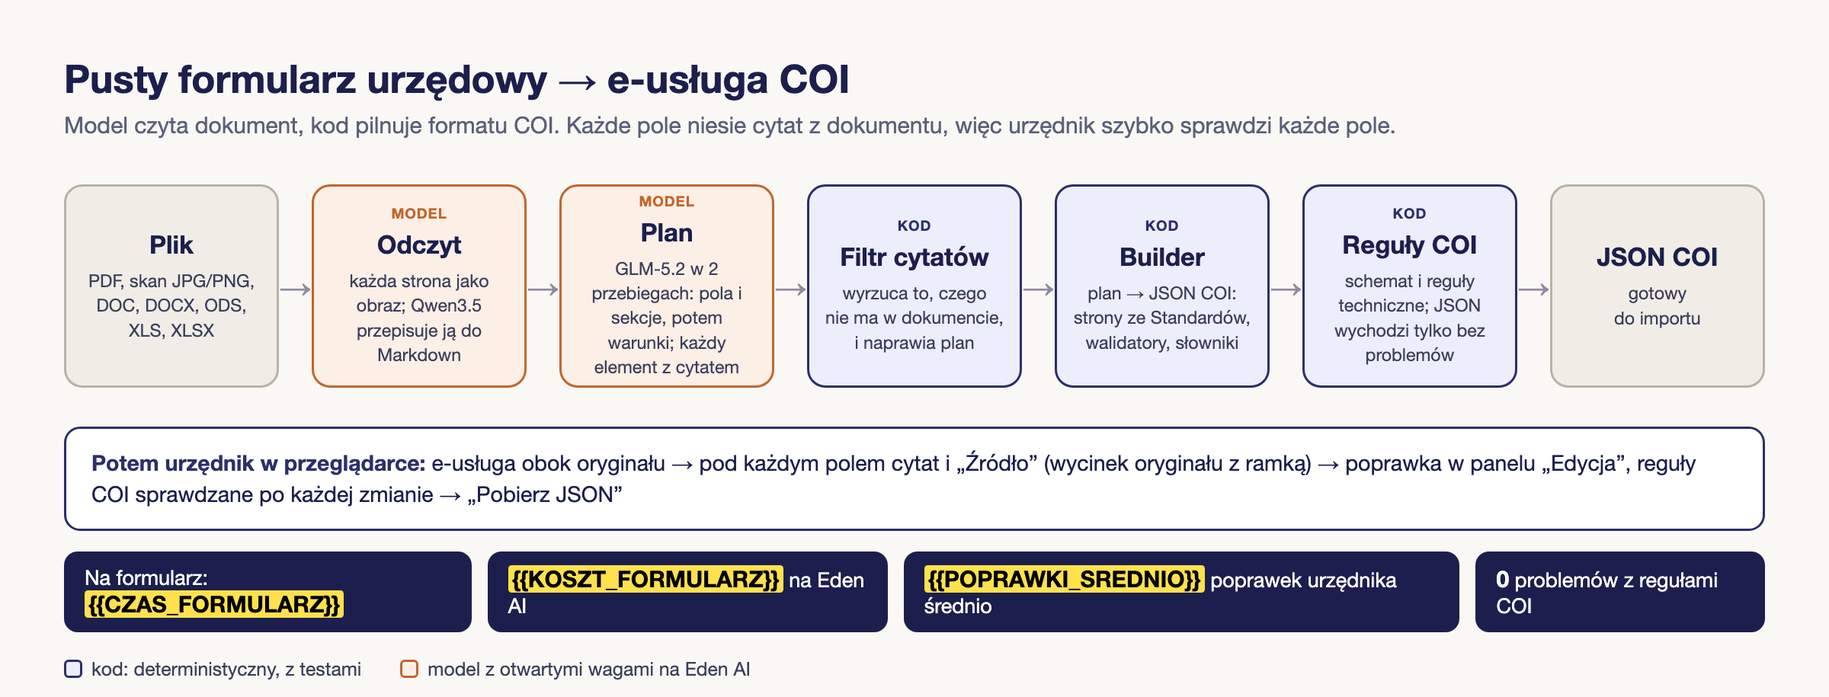
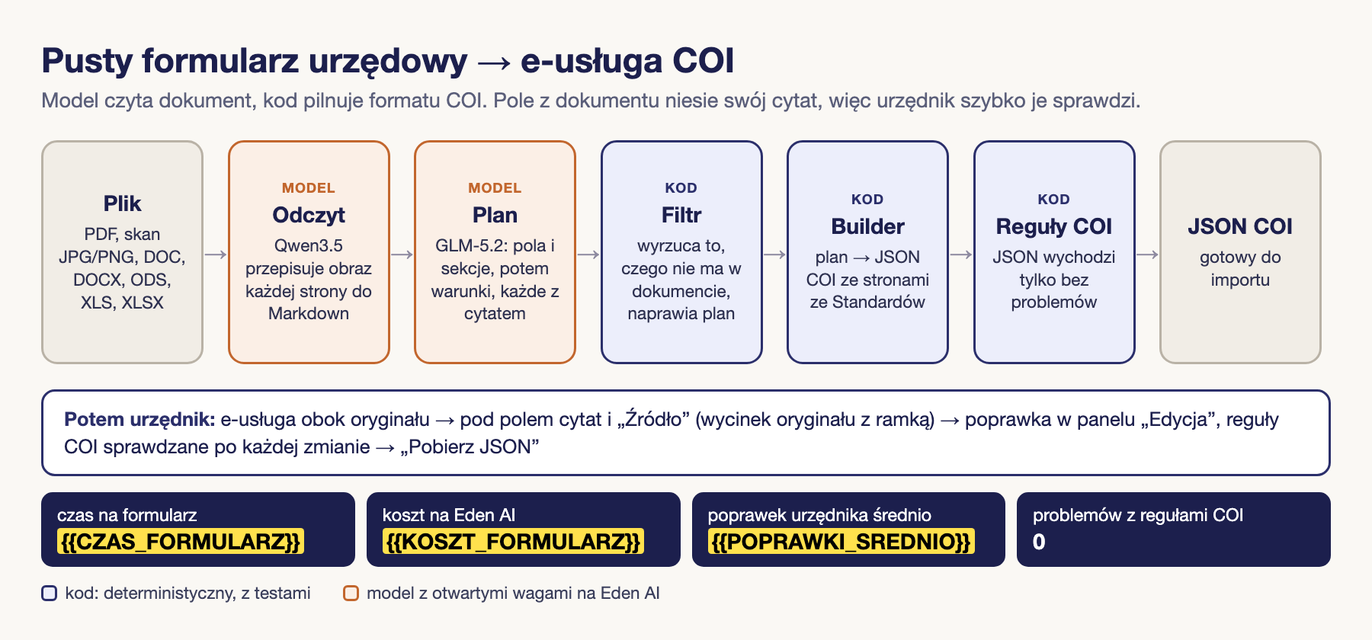
README council round 1: storage says the 16-file reading cache stays in memory, status_url 404 = job gone, compliance row answers the external-API rule (open weights, Eden hosts them, own server by config, its key in EDENAI_API_KEY), files-with-JSON and fields-per-form slots, one step numbering (1 U

Changed region(s): [[0.0311, 0.0619, 0.9956, 0.9905]]

diff --git a/docs/img/prosty.html b/docs/img/prosty.html
@@ -1,53 +1,54 @@
 <!doctype html>
 <html lang="pl"><head><meta charset="utf-8">
-<meta name="render" content="1600x610">
-<!-- Diagram „w skrócie” z README. Render: python3 docs/img/render.py prosty (liczby z liczby.json). -->
+<meta name="render" content="1200x560">
+<!-- Diagram „w skrócie” na górze README. 1200 px szerokości, żeby tekst był czytelny w szerokości README na GitHubie.
+     Render: python3 docs/img/render.py prosty (liczby z liczby.json). -->
 <style>
   *{box-sizing:border-box}
   body{margin:0;background:#faf8f4;font-family:-apple-system,"Helvetica Neue",Arial,sans-serif;color:#1c1f4d}
-  .wrap{width:1600px;padding:48px 56px}
-  h1{margin:0 0 8px;font-size:34px;font-weight:700}
-  .sub{margin:0 0 40px;font-size:20px;color:#5b5f7a}
+  .wrap{width:1200px;padding:34px 36px}
+  h1{margin:0 0 6px;font-size:30px;font-weight:700}
+  .sub{margin:0 0 24px;font-size:18px;color:#5b5f7a}
   .row{display:flex;align-items:center}
-  .box{width:196px;height:178px;border-radius:16px;padding:16px 14px;display:flex;flex-direction:column;justify-content:center;text-align:center;border:2px solid}
-  .box b{font-size:22px;display:block;margin-bottom:8px}
-  .box span{font-size:15.5px;line-height:1.38;color:#3b3f5c}
-  .box i{font-style:normal;font-size:12.5px;font-weight:700;letter-spacing:.6px;text-transform:uppercase;margin-bottom:6px}
+  .box{width:142px;height:196px;border-radius:14px;padding:12px 9px;display:flex;flex-direction:column;justify-content:center;text-align:center;border:2px solid}
+  .box b{font-size:19px;display:block;margin-bottom:6px}
+  .box span{font-size:15px;line-height:1.33;color:#2e3150}
+  .box i{font-style:normal;font-size:12px;font-weight:700;letter-spacing:.6px;text-transform:uppercase;margin-bottom:4px}
   .io{background:#f1ede6;border-color:#b9b2a6}
   .code{background:#eceefb;border-color:#2b2f6b}.code i{color:#2b2f6b}
   .ai{background:#fbefe6;border-color:#c2662d}.ai i{color:#c2662d}
-  .arrow{width:30px;text-align:center;font-size:28px;color:#8e8aa0}
-  .clerk{margin-top:34px;background:#fff;border:2px solid #2b2f6b;border-radius:14px;padding:16px 22px;font-size:19px;line-height:1.45}
+  .arrow{width:21px;text-align:center;font-size:20px;color:#8e8aa0}
+  .clerk{margin-top:22px;background:#fff;border:2px solid #2b2f6b;border-radius:12px;padding:12px 18px;font-size:17px;line-height:1.42}
   .clerk b{color:#2b2f6b}
-  .nums{margin-top:18px;display:flex;gap:14px}
-  .num{background:#1c1f4d;color:#fff;border-radius:12px;padding:12px 18px;font-size:18px}
-  .num b{font-size:20px}
-  .legend{margin-top:22px;display:flex;gap:34px;font-size:16.5px;color:#3b3f5c}
-  .dot{display:inline-block;width:16px;height:16px;border-radius:4px;vertical-align:-2px;margin-right:8px;border:2px solid}
+  .nums{margin-top:14px;display:grid;grid-template-columns:repeat(4,1fr);gap:10px}
+  .num{background:#1c1f4d;color:#fff;border-radius:10px;padding:10px 14px;font-size:15.5px;line-height:1.3}
+  .num b{font-size:19px;display:block}
+  .legend{margin-top:14px;display:flex;gap:28px;font-size:15px;color:#3b3f5c}
+  .dot{display:inline-block;width:14px;height:14px;border-radius:4px;vertical-align:-2px;margin-right:7px;border:2px solid}
 </style></head><body><div class="wrap">
   <h1>Pusty formularz urzędowy → e-usługa COI</h1>
-  <p class="sub">Model czyta dokument, kod pilnuje formatu COI. Każde pole niesie cytat z dokumentu, więc urzędnik szybko sprawdzi każde pole.</p>
+  <p class="sub">Model czyta dokument, kod pilnuje formatu COI. Pole z dokumentu niesie swój cytat, więc urzędnik szybko je sprawdzi.</p>
   <div class="row">
-    <div class="box io"><b>Plik</b><span>PDF, skan JPG/PNG,<br>DOC, DOCX, ODS,<br>XLS, XLSX</span></div>
+    <div class="box io"><b>Plik</b><span>PDF, skan JPG/PNG, DOC, DOCX, ODS, XLS, XLSX</span></div>
     <div class="arrow">→</div>
-    <div class="box ai"><i>model</i><b>Odczyt</b><span>każda strona jako obraz; Qwen3.5 przepisuje ją do Markdown</span></div>
+    <div class="box ai"><i>model</i><b>Odczyt</b><span>Qwen3.5 przepisuje obraz każdej strony do Markdown</span></div>
     <div class="arrow">→</div>
-    <div class="box ai"><i>model</i><b>Plan</b><span>GLM-5.2 w 2 przebiegach: pola i sekcje, potem warunki; każdy element z cytatem</span></div>
+    <div class="box ai"><i>model</i><b>Plan</b><span>GLM-5.2: pola i sekcje, potem warunki, każde z cytatem</span></div>
     <div class="arrow">→</div>
-    <div class="box code"><i>kod</i><b>Filtr cytatów</b><span>wyrzuca to, czego<br>nie ma w dokumencie,<br>i naprawia plan</span></div>
+    <div class="box code"><i>kod</i><b>Filtr</b><span>wyrzuca to, czego nie ma w dokumencie, naprawia plan</span></div>
     <div class="arrow">→</div>
-    <div class="box code"><i>kod</i><b>Builder</b><span>plan → JSON COI:<br>strony ze Standardów,<br>walidatory, słowniki</span></div>
+    <div class="box code"><i>kod</i><b>Builder</b><span>plan → JSON COI ze stronami ze Standardów</span></div>
     <div class="arrow">→</div>
-    <div class="box code"><i>kod</i><b>Reguły COI</b><span>schemat i reguły techniczne; JSON wychodzi tylko bez problemów</span></div>
+    <div class="box code"><i>kod</i><b>Reguły COI</b><span>JSON wychodzi tylko bez problemów</span></div>
     <div class="arrow">→</div>
-    <div class="box io"><b>JSON COI</b><span>gotowy<br>do importu</span></div>
+    <div class="box io"><b>JSON COI</b><span>gotowy do importu</span></div>
   </div>
-  <div class="clerk"><b>Potem urzędnik w przeglądarce:</b> e-usługa obok oryginału → pod każdym polem cytat i „Źródło” (wycinek oryginału z ramką) → poprawka w panelu „Edycja”, reguły COI sprawdzane po każdej zmianie → „Pobierz JSON”</div>
+  <div class="clerk"><b>Potem urzędnik:</b> e-usługa obok oryginału → pod polem cytat i „Źródło” (wycinek oryginału z ramką) → poprawka w panelu „Edycja”, reguły COI sprawdzane po każdej zmianie → „Pobierz JSON”</div>
   <div class="nums">
-    <div class="num">Na formularz: <b>{{CZAS_FORMULARZ}}</b></div>
-    <div class="num"><b>{{KOSZT_FORMULARZ}}</b> na Eden AI</div>
-    <div class="num"><b>{{POPRAWKI_SREDNIO}}</b> poprawek urzędnika średnio</div>
-    <div class="num"><b>0</b> problemów z regułami COI</div>
+    <div class="num">czas na formularz<b>{{CZAS_FORMULARZ}}</b></div>
+    <div class="num">koszt na Eden AI<b>{{KOSZT_FORMULARZ}}</b></div>
+    <div class="num">poprawek urzędnika średnio<b>{{POPRAWKI_SREDNIO}}</b></div>
+    <div class="num">problemów z regułami COI<b>0</b></div>
   </div>
   <div class="legend">
     <span><i class="dot" style="background:#eceefb;border-color:#2b2f6b"></i>kod: deterministyczny, z testami</span>

diff --git a/docs/img/architektura.html b/docs/img/architektura.html
@@ -40,31 +40,31 @@ h1{font-size:30px;font-weight:700;letter-spacing:-.3px}
 <div class="lane">
  <div class="lanelabel">Główna ścieżka: POST /api/forms/convert (app/pipeline.py)</div>
  <div class="row">
-  <div class="box io"><h3>Upload</h3><div class="f">app/upload.py, security.py</div>
+  <div class="box io"><h3>1. Upload</h3><div class="f">app/upload.py, security.py</div>
    <ul><li>jeden plik, tylko w pamięci</li><li>limit rozmiaru, nazwa, rozszerzenie, sygnatura bajtów</li><li>JWT przy AUTH_ENABLED=1</li></ul>
    <div class="data">bajty + nazwa</div></div>
   <div class="arrow">→</div>
-  <div class="box llm"><h3>1. Odczyt stron</h3><div class="f">app/llm/transcribe.py</div>
-   <ul><li>każdy format → obrazy stron (PDFium; pliki biurowe przez LibreOffice)</li><li>Qwen3.5-397B-A17B: jedno wywołanie na stronę, 4 naraz</li><li>wynik w pamięci podręcznej po sha256</li></ul>
+  <div class="box llm"><h3>2. Odczyt stron</h3><div class="f">app/llm/transcribe.py</div>
+   <ul><li>każdy format → obrazy stron (PDFium; pliki biurowe przez LibreOffice)</li><li>Qwen3.5-397B-A17B: jedno wywołanie na stronę, 4 naraz</li><li>odczyt 16 ostatnich plików zostaje w pamięci (sha256), słowniki nie płacą drugi raz</li></ul>
    <div class="data">Markdown stron</div></div>
   <div class="arrow">→</div>
-  <div class="box llm"><h3>2a. Planer, przebieg 1</h3><div class="f">app/llm/planner.py</div>
+  <div class="box llm"><h3>3a. Planer, przebieg 1</h3><div class="f">app/llm/planner.py</div>
    <ul><li>GLM-5.2 czyta sam Markdown</li><li>strony, sekcje, pola, opcje, oświadczenia, adresat, kto składa</li><li>odpowiedź wymuszona schematem JSON</li><li>każdy element niesie <b>cytat</b></li></ul>
    <div class="data">szkic planu</div></div>
   <div class="arrow">→</div>
-  <div class="box llm"><h3>2b. Planer, przebieg 2</h3><div class="f">app/llm/planner.py</div>
+  <div class="box llm"><h3>3b. Planer, przebieg 2</h3><div class="f">app/llm/planner.py</div>
    <ul><li>warunki „pokaż, gdy…”</li><li>schemat dopuszcza tylko istniejące pola i opcje</li><li>może dodać pytanie Tak/Nie z cytatem</li></ul>
    <div class="data">plan + warunki</div></div>
   <div class="arrow">→</div>
-  <div class="box code"><h3>3. Filtr cytatów, naprawy</h3><div class="f">app/quotes.py, repair.py</div>
+  <div class="box code"><h3>4. Filtr cytatów, naprawy</h3><div class="f">app/quotes.py, repair.py</div>
    <ul><li>cytatu nie ma w Markdownie → element wypada</li><li>opcje spoza dokumentu, podwójne pola i pytania</li><li>warunek bez oparcia → wypada, pole zostaje</li></ul>
    <div class="data">czysty plan</div></div>
   <div class="arrow">→</div>
-  <div class="box code"><h3>4. Builder</h3><div class="f">app/builder/</div>
+  <div class="box code"><h3>5. Builder</h3><div class="f">app/builder/</div>
    <ul><li>plan → JSON COI, bez modelu</li><li>strony ze Standardów: Dane (MLPZ), Kontakt i zgody, końcowa</li><li>SHOW w JSONata, walidatory, słowniki</li></ul>
    <div class="data">JSON COI + cytaty</div></div>
   <div class="arrow">→</div>
-  <div class="box code"><h3>5. Reguły COI</h3><div class="f">app/rules.py</div>
+  <div class="box code"><h3>6. Reguły COI</h3><div class="f">app/rules.py</div>
    <ul><li>schemat JSON COI</li><li>„Reguły techniczne”</li><li>jakikolwiek problem → <b>422</b>, nigdy zły JSON</li></ul>
    <div class="data">200: JSON COI</div></div>
  </div>

diff --git a/docs/img/odczyt.html b/docs/img/odczyt.html
@@ -38,7 +38,7 @@
   <div class="grid">
    <div>
     <div class="step"><div class="n">1</div><div class="body">
-      <div class="title">Plik</div>
+      <div class="title">Plik (upload)</div>
       <div class="chips">
         <div class="chip">PDF z tekstem</div><div class="chip">PDF ze skanem</div>
         <div class="chip">Skan JPG / PNG</div><div class="chip">DOC / DOCX / ODS / XLS / XLSX</div>
@@ -73,8 +73,8 @@
     <div class="step"><div class="n">3</div><div class="body">
       <div class="title">Planer GLM-5.2 na Eden AI: Markdown → plan formularza, 2 przebiegi</div>
       <div class="pass">
-        <div><b>Przebieg 1: struktura</b><br>strony, sekcje, pola z typami i opcjami, oświadczenia, adresat, kto składa wniosek. Każdy element ma <b>cytat</b> z dokumentu.</div>
-        <div><b>Przebieg 2: warunki</b><br>„pokaż, gdy…” (np. „Numer mikroprocesora” tylko przy oznakowaniu psa „mikroprocesor”), też z cytatem. Schemat odpowiedzi dopuszcza tylko istniejące pola i opcje.</div>
+        <div><b>3a. Przebieg 1: struktura</b><br>strony, sekcje, pola z typami i opcjami, oświadczenia, adresat, kto składa wniosek. Każdy element ma <b>cytat</b> z dokumentu.</div>
+        <div><b>3b. Przebieg 2: warunki</b><br>„pokaż, gdy…” (np. „Numer mikroprocesora” tylko przy oznakowaniu psa „mikroprocesor”), też z cytatem. Schemat odpowiedzi dopuszcza tylko istniejące pola i opcje.</div>
       </div>
       <div class="out">→ plan; filtr cytatów wyrzuca wszystko, czego cytatu nie ma w Markdownie z kroku 2, potem naprawy w kodzie</div>
     </div></div>

diff --git a/docs/img/historia.html b/docs/img/historia.html
@@ -51,7 +51,7 @@ h1{font-size:28px;font-weight:700}
  </div>
 
  <div class="panel"><h2>3. GLM-5.2 najlepszym planerem</h2>
-  <p>Ten sam Markdown formularza 3 (PDF, skan, DOCX), średnia z 2 przebiegów; pod nazwą sekundy na plan</p>
+  <p>Ten sam Markdown formularza 3 (PDF, JPEG, DOCX), średnia z 2 przebiegów; pod nazwą sekundy na plan</p>
   <div class="chart">
    <div class="grp"><div class="bars"><div class="bar ours" style="height:95%"><span>0,95</span></div></div></div>
    <div class="grp"><div class="bars"><div class="bar grey" style="height:92.8%"><span>0,93</span></div></div></div>

diff --git a/app/config.py b/app/config.py
@@ -71,8 +71,8 @@ class Settings(BaseSettings):
                 raise ValueError("JWT_JWKS_URL needs an asymmetric JWT_ALGORITHM such as RS256")
             return self
         if self.jwt_secret is None:
-            # Safe dev fallback: unguessable, but tokens die with the process. Docker compose
-            # refuses to start without JWT_SECRET, so this only happens in local runs.
+            # Safe fallback: unguessable, but tokens die with the process (and with AUTH_ENABLED=0 nobody
+            # needs one); set JWT_SECRET in production. Nothing refuses to start without it.
             log.warning("JWT_SECRET not set: using a random per-process secret (set it in production)")
             self.jwt_secret = SecretStr(secrets.token_urlsafe(32))
         elif len(self.jwt_secret.get_secret_value()) < 32:

diff --git a/README.md b/README.md
@@ -1,6 +1,8 @@
 # eFormatka: z papierowego formularza e-usługa COI
 
-Wgrywasz pusty formularz urzędowy w dowolnym formacie (PDF, skan JPG/PNG, DOC, DOCX, ODS, XLS, XLSX), a REST API zwraca JSON e-usługi COI gotowy do importu. Urzędnik dostaje ten JSON jako szkic obok oryginału i poprawia go w edytorze: pod każdym polem widzi cytat z dokumentu i „Źródło”, czyli wycinek oryginału z zaznaczonym miejscem. Model nie musi trafić wszystkiego za pierwszym razem, bo sprawdzenie i poprawka zajmują chwilę.
+Wgrywasz pusty formularz urzędowy w dowolnym formacie (PDF, skan JPG/PNG, DOC, DOCX, ODS, XLS, XLSX), a REST API zwraca JSON e-usługi COI gotowy do importu. Urzędnik dostaje ten JSON jako szkic obok oryginału i poprawia go w edytorze: pod polem widzi cytat z dokumentu, z którego pole powstało, i „Źródło”, czyli wycinek oryginału z zaznaczonym miejscem. Model nie musi trafić wszystkiego za pierwszym razem: JSON to szkic, który urzędnik sprawdza i poprawia z oryginałem przed oczami.
+
+{{ZRZUT_APLIKACJI}}
 
 ![Schemat: plik → odczyt stron → plan z cytatami → kod buduje i sprawdza JSON COI → urzędnik poprawia w przeglądarce](docs/img/prosty.png)
 
@@ -12,12 +14,13 @@ Mierzymy to, co obchodzi urzędnika: ile poprawek musi zrobić w edytorze, zanim
 
 | | |
 |---|---|
-| Poprawki urzędnika | średnio **{{POPRAWKI_SREDNIO}}** na formularz, szczegóły w tabeli niżej |
+| Poprawki urzędnika | średnio **{{POPRAWKI_SREDNIO}}** na formularz, który ma średnio {{POLA_SREDNIO}} pól; szczegóły w tabeli niżej |
+| Pliki, z których powstał JSON | **{{PLIKI_OK}}** z 69 (9 formularzy z zadania we wszystkich formatach) |
 | Problemy z regułami COI | **0**. API nie wypuszcza JSON-a, który łamie schemat COI albo „Reguły techniczne”, tylko odpowiada 422 |
 | Czas i koszt | średnio **{{CZAS_FORMULARZ}}** i **{{KOSZT_FORMULARZ}}** na formularz (modele na Eden AI) |
-| Czy sędziom można wierzyć | {{KALIBRACJA}} |
+| Kalibracja sędziów | {{KALIBRACJA}} |
 
-**Jak liczymy poprawki.** Trzech sędziów AI dostaje strony oryginału i nasz JSON jako czytelny konspekt. Każdy osobno wypisuje poprawki, które urzędnik zrobiłby w edytorze: brakujące pole, zmyślone pole, zły typ, złe opcje, zły albo brakujący warunek, złe „wymagane”. Poprawka liczy się, gdy wypiszą ją co najmniej 2 z 3 sędziów. Samych sędziów sprawdziliśmy na 10 błędach, które celowo wstawiliśmy do poprawnych JSON-ów (wiersz „Czy sędziom można wierzyć”). Przepis: `bench/JUDGE-POPRAWKI.md`.
+**Jak liczymy poprawki.** Trzech sędziów AI dostaje strony oryginału i nasz JSON jako czytelny konspekt. Każdy osobno wypisuje poprawki, które urzędnik zrobiłby w edytorze: brakujące pole, zmyślone pole, zły typ, złe opcje, zły albo brakujący warunek, złe „wymagane”. Poprawka liczy się, gdy wypiszą ją co najmniej 2 z 3 sędziów. Samych sędziów sprawdziliśmy na 10 błędach, które celowo wstawiliśmy do poprawnych JSON-ów (wiersz „Kalibracja sędziów”). Przepis: `bench/JUDGE-POPRAWKI.md`.
 
 ### Każdy formularz z zadania
 
@@ -25,7 +28,7 @@ Mierzymy to, co obchodzi urzędnika: ile poprawek musi zrobić w edytorze, zanim
 
 ### Porównanie podejść
 
-Te same dokumenty i ci sami sędziowie, od najprostszego podejścia (cały plik prosto do jednego modelu, który ma oddać JSON COI) do naszego:
+Te same dokumenty i ci sami sędziowie, od najprostszego podejścia (cały plik prosto do jednego modelu, który ma oddać JSON COI) do naszego. Przy każdym podejściu podajemy model:
 
 {{PORÓWNANIE}}
 
@@ -51,8 +54,6 @@ uv run uvicorn app.api:app --port 8000
 Strona dla urzędnika: http://localhost:8000. OpenAPI: http://localhost:8000/docs. Stan: http://localhost:8000/health. Jeden formularz trwa od pół minuty do kilku minut. Gdy klient nie może tyle czekać, jest [zadanie w tle](#zadanie-w-tle).
 
 ## Jak z tego korzystać
-
-{{ZRZUT_APLIKACJI}}
 
 1. **Wgraj plik** na http://localhost:8000: upuść go gdziekolwiek na stronie albo wybierz z dysku. Kilka plików naraz przetwarza się po kolei, a „Pobierz wszystkie” daje ZIP z ich JSON-ami.
 2. **Porównaj.** Z lewej oryginał, z prawej e-usługa tak, jak zobaczy ją obywatel. Wszystkie kroki przeklikasz bez wypełniania pól.
@@ -81,7 +82,7 @@ Do tego:
 | 5. Formaty, MIME z zawartości, nazwa pliku, limit rozmiaru | wszystko z listy zadania plus `.xls` i `.jpe` | [Walidacja i limity](#walidacja-i-limity) |
 | 5. Tylko tymczasowe przetwarzanie | `convert` trzyma plik w pamięci; `HISTORY_ENABLED=0` wyłącza historię | [Przechowywanie plików](#przechowywanie-plików) |
 | 5. Docker, konfiguracja, README | Alpine, wersje przypięte, użytkownik bez uprawnień, sekrety tylko przy starcie | [Budowanie obrazu Docker](#budowanie-obrazu-docker), [Konfiguracja](#konfiguracja) |
-| 5. Python 3.14+, open source bez copyleft, modele z otwartymi wagami | GLM-5.2 (MIT), Qwen3.5 (Apache-2.0) | [Licencje](#licencje) |
+| 5. Python 3.14+, open source bez copyleft, bez modeli dostępnych tylko przez API | GLM-5.2 (MIT) i Qwen3.5 (Apache-2.0) mają otwarte wagi. Eden AI tylko je hostuje, a dostęp dali organizatorzy zadania. Własny serwer z tymi wagami ustawia się w konfiguracji, bez zmian w kodzie | [Licencje](#licencje) |
 
 ## Architektura
 
@@ -100,7 +101,7 @@ Dlaczego tak:
 Kroki po kolei:
 1. **Upload** (`app/upload.py`). Plik idzie do pamięci, a limit rozmiaru działa w trakcie odczytu. Potem kod sprawdza nazwę, rozszerzenie i sygnaturę bajtów. Przy `AUTH_ENABLED=1` żądanie potrzebuje tokenu JWT (`app/security.py`).
 2. **Odczyt** (`app/llm/transcribe.py`). PDF renderuje PDFium, pliki biurowe najpierw zamienia na PDF LibreOffice, a wysoki skan z kilkoma stronami kod tnie na strony. Każda strona, zmniejszona do 1024 px, idzie osobno do Qwen3.5-397B-A17B, cztery naraz.
-3. **Plan** (`app/llm/planner.py`, kontrakt `app/plan.py`). GLM-5.2 czyta sam Markdown, bez trybu myślenia, a odpowiedź wymusza schemat JSON.
+3. **Plan** (`app/llm/planner.py`, kontrakt `app/plan.py`). GLM-5.2 czyta sam Markdown, bez trybu myślenia, a odpowiedź wymusza schemat JSON. Przebieg 3a ustala strukturę, przebieg 3b warunki.
 4. **Filtr cytatów i naprawy** (`app/quotes.py`, `app/repair.py`). Wypada element bez cytatu w Markdownie (dopasowanie rozmyte, `rapidfuzz`), pole, które kod i tak buduje na stronie „Dane”, i warunek bez oparcia w dokumencie (pole zostaje). Naprawy bez modelu: lista z opcją spoza dokumentu staje się polem tekstowym, podwójne pytanie i podwójne pole zostają raz, adres do korespondencji dostaje pytanie Tak/Nie, gdy dokument mówi „inny niż”.
 5. **Builder** (`app/builder/`). Plan staje się pełną konfiguracją COI. Builder zwraca też mapę dowodów: przy każdym elemencie cytat z dokumentu albo informacja, że dodał go kod.
 6. **Reguły** (`app/rules.py`). Schemat JSON COI i „Reguły techniczne”. Każdy problem kończy żądanie kodem 422.
@@ -168,7 +169,7 @@ Zmienne środowiskowe albo plik `.env` (`app/config.py`, wzór w `.env.example`)
 | `JWT_TTL_MINUTES` | `60` | Ważność wydanego tokenu |
 | `AUTH_USERNAME`, `AUTH_PASSWORD` | `admin`, brak | Login i hasło do `/api/auth/token`. Bez hasła logowanie lokalne jest wyłączone |
 | `JWT_JWKS_URL` | brak | Zewnętrzny serwer tożsamości (np. Keycloak): API sprawdza tokeny jego kluczami publicznymi, logowanie lokalne jest wyłączone |
-| `LLM_BASE_URL` | `https://api.edenai.run/v3` | API czatu zgodne z OpenAI. Własny serwer z tymi samymi wagami działa bez zmian w kodzie |
+| `LLM_BASE_URL` | `https://api.edenai.run/v3` | API czatu zgodne z OpenAI. Własny serwer z tymi samymi wagami działa bez zmian w kodzie (jego klucz idzie w `EDENAI_API_KEY`) |
 | `LLM_MODEL` | `deepinfra/zai-org/GLM-5.2` | Planer: czyta Markdown stron i pisze plan formularza |
 | `TRANSCRIBE_MODEL` | `deepinfra/Qwen/Qwen3.5-397B-A17B` | Model wizyjny, który przepisuje każdą stronę do Markdown |
 | `LLM_TIMEOUT_S` | `1200` | Limit czasu jednego wywołania planera (s) |
@@ -224,15 +225,15 @@ for i in $(seq 240); do   # do 20 minut
 done; echo "$CODE"       # 200 = JSON COI, inny kod = błąd opisany w wniosek.json
 ```
 
-Nieznane albo wygasłe zadanie też daje 404; odróżnisz je przez `status_url` (404 tylko dla nieznanego zadania).
+Zadanie, którego nie ma (nieznane albo wygasłe), też daje 404 na adresie wyniku. Odróżnisz je przez `status_url`: tam 404 znaczy właśnie to, a liczące się zadanie odpowiada `pending`.
 
 ### Błędy
 
-Każdy błąd to JSON `{"detail": "..."}`.
+Każdy błąd to JSON z polem `detail`, zwykle `{"detail": "opis po polsku"}`.
 
 | Kod | Kiedy |
 |---|---|
-| 400 | zła nazwa pliku, pusty plik, brak pola `file` albo więcej niż jeden plik |
+| 400 | zła nazwa pliku, pusty plik, brak pliku albo więcej niż jeden plik; brak `username` lub `password` przy logowaniu |
 | 401 | brak, zły lub wygasły token; zły login lub hasło (tylko przy `AUTH_ENABLED=1`) |
 | 404 | wynik zadania jeszcze się liczy albo zadanie jest nieznane; `/api/history` przy `HISTORY_ENABLED=0` |
 | 413 | plik większy niż `MAX_FILE_SIZE_MB` |
@@ -240,11 +241,11 @@ Każdy błąd to JSON `{"detail": "..."}`.
 | 422 | nie udało się odczytać formularza albo wynik łamałby reguły COI |
 | 429 | 20 zadań w tle już w toku |
 | 500 | nieoczekiwany błąd serwera (szczegóły tylko w logu) |
-| 502 / 503 / 504 | model zwrócił błąd / jest niedostępny albo brak `EDENAI_API_KEY` / nie odpowiedział na czas |
+| 502 / 503 / 504 | model zwrócił błąd / jest niedostępny albo brak `EDENAI_API_KEY` / nie odpowiedział na czas. 503 także z `/api/auth/token`, gdy logowanie lokalne jest wyłączone (brak `AUTH_PASSWORD` albo tokeny wydaje `JWT_JWKS_URL`) |
 
 ## Walidacja i limity
 
-- Jeden plik na żądanie, w polu `file`. Każda inna liczba plików to 400.
+- Jeden plik na żądanie, jako `multipart/form-data` w polu `file`. Żądanie bez pliku albo z więcej niż jednym plikiem to 400.
 - Rozszerzenia, bez względu na wielkość liter: `.pdf .doc .docx .ods .xlsx .xls .jpg .jpeg .jpe .png`. Inne to 415. `.xls` i `.jpe` to świadomy dodatek do listy z zadania, bo spotykamy je w BIP-ach gmin.
 - Zadanie wymienia DOC jako „.doc .docx”, więc oba rozszerzenia przyjmują oba formaty Worda (gminy publikują DOCX z końcówką `.doc`). Zawartość nadal musi być prawdziwym dokumentem Worda.
 - Nazwa pliku: najwyżej 250 znaków, bez `; : > < / \ | ' * % $`.
@@ -253,7 +254,7 @@ Każdy błąd to JSON `{"detail": "..."}`.
 
 ### Przechowywanie plików
 
-- `POST /api/forms/convert`: plik jest tylko w pamięci i nic nie zostaje po odpowiedzi. Na dysk na czas żądania trafiają tylko pliki tymczasowe LibreOffice i Tesseracta. Obrazy stron idą do modelu na Eden AI, nie na dysk.
+- `POST /api/forms/convert`: plik jest tylko w pamięci i po odpowiedzi nie zostaje ani on, ani wynik. Na dysk na czas żądania trafiają tylko pliki tymczasowe LibreOffice i Tesseracta. Obrazy stron idą do modelu na Eden AI, nie na dysk. W pamięci procesu zostaje odczyt stron (Markdown) 16 ostatnich plików, żeby propozycje słowników nie płaciły za ten sam odczyt drugi raz; znika przy restarcie.
 - `POST /api/forms/jobs`: plik jest w pamięci procesu do końca zadania, także po błędzie. Zostaje sam wynik JSON, przez 1 h. Restart serwera zapomina wszystkie zadania.
 - Historia strony `/` to funkcja interfejsu, nie API: zachowuje oryginał i wynik, żeby urzędnik mógł wrócić do pliku. W Dockerze leży w `/tmp` w pamięci kontenera. `HISTORY_ENABLED=0` wyłącza ją całkiem.
 
@@ -273,8 +274,9 @@ Tabele, czasy, koszty i odrzucone pomysły są w [docs/historia.md](docs/histori
 
 - Najsłabsze są warunki na długich formularzach (np. 16-stronicowy wniosek „3 w 1”). Model znajduje część zależności, resztę urzędnik ustawia w panelu „Edycja” wyborem „pokaż, gdy…”.
 - Ten sam plik wysłany dwa razy może dać trochę inny szkic, bo modele nie są powtarzalne co do bitu. Dlatego każdą zmianę mierzyliśmy na kilku dokumentach.
-- Modele działają na Eden AI, do którego dostęp dali organizatorzy zadania. Wagi są otwarte, więc te same modele postawione na własnym serwerze wystarczy wskazać w `LLM_BASE_URL` i `LLM_MODEL`.
+- Modele działają na Eden AI, do którego dostęp dali organizatorzy zadania. Wagi są otwarte, więc te same modele można postawić na własnym serwerze z API zgodnym z OpenAI: adres w `LLM_BASE_URL`, nazwy w `LLM_MODEL` i `TRANSCRIBE_MODEL`, klucz tego serwera w `EDENAI_API_KEY`.
 - Formularz dłuższy niż 30 stron jest czytany do 30. strony.
+- Zadania w tle i odczyty stron żyją w pamięci jednego procesu, więc usługa działa jako jedna instancja. Kilka instancji za load balancerem wymagałoby wspólnej kolejki zadań.
 
 ## Licencje
 
